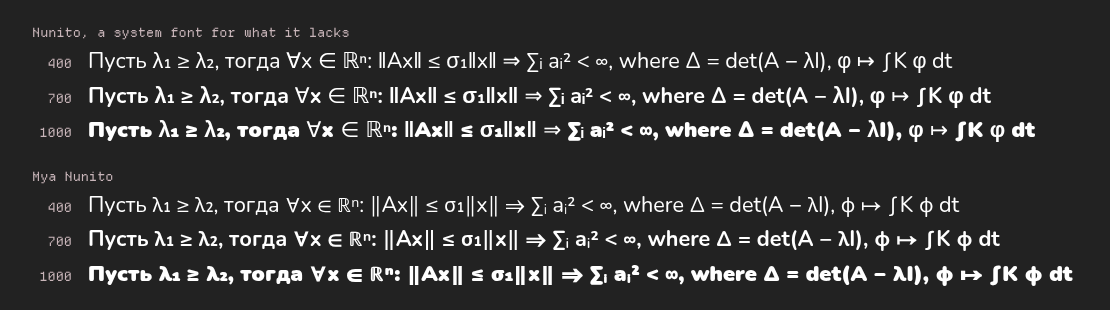
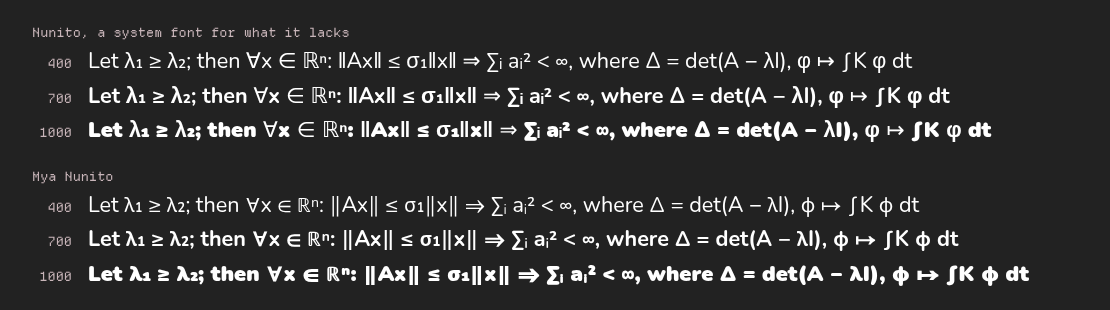
Write the Mya Nunito demo line in English
The line mixed Russian and English, and the readme is in English. Both
pictures are taken again.

Assisted-by: Claude Code:claude-opus-5-5 (mostly)

diff --git a/docs/mya-nunito-demo.html b/docs/mya-nunito-demo.html
@@ -56,7 +56,7 @@
 <body>
 <script>
   // One line of a note, set in each face at each weight
-  const line = "Пусть λ₁ ≥ λ₂, тогда ∀x ∈ ℝⁿ: ‖Ax‖ ≤ σ₁‖x‖ ⇒ ∑ᵢ aᵢ² < ∞, where Δ = det(A − λI), φ ↦ ∫K φ dt";
+  const line = "Let λ₁ ≥ λ₂; then ∀x ∈ ℝⁿ: ‖Ax‖ ≤ σ₁‖x‖ ⇒ ∑ᵢ aᵢ² < ∞, where Δ = det(A − λI), φ ↦ ∫K φ dt";
   const faces = [
     ["nunito", "Nunito, a system font for what it lacks"],
     ["mya", "Mya Nunito"],
